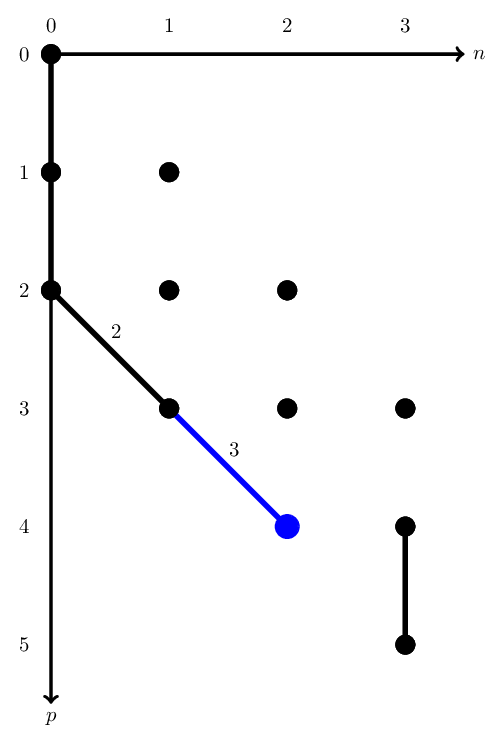
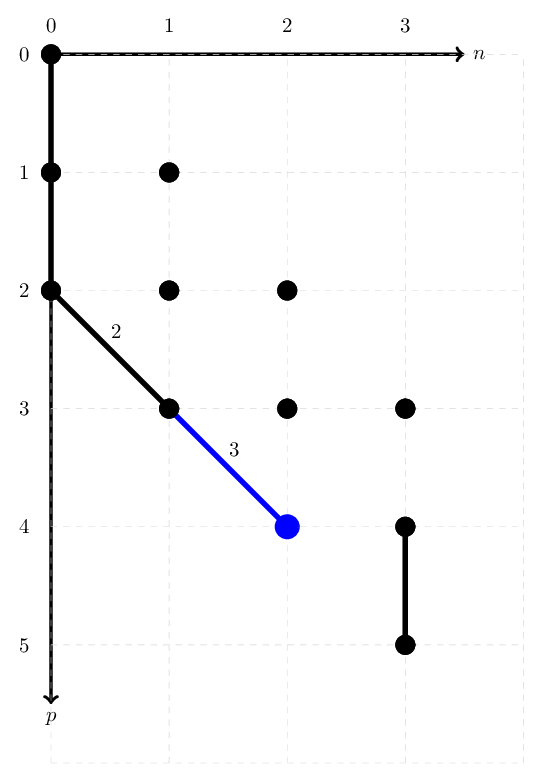
Bugfix: add grid everywhere.

diff --git a/media/ONVPath_00110_4.tex b/media/ONVPath_00110_4.tex
@@ -21,7 +21,7 @@
     \node[circle, label=left:\i] at (0,-\i) {};
 }
 
-%\draw[help lines, color=gray!30, dashed] (0,0) grid (4,-6); % uncomment this if you want a grid
+\draw[help lines, color=gray!30, dashed] (0,0) grid (4,-6); % uncomment this if you want a grid
 
 % draw nodes
 \foreach \i in {0,...,3} {

diff --git a/media/ONVPath_00111.tex b/media/ONVPath_00111.tex
@@ -19,7 +19,7 @@
     \node[circle, label=left:\i] at (0,-\i) {};
 }
 
-%\draw[help lines, color=gray!30, dashed] (0,0) grid (4,-6); % uncomment this if you want a grid
+\draw[help lines, color=gray!30, dashed] (0,0) grid (4,-6); % uncomment this if you want a grid
 
 % draw nodes
 \foreach \i in {0,...,3} {

diff --git a/media/ONVPath_01110.tex b/media/ONVPath_01110.tex
@@ -21,7 +21,7 @@
     \node[circle, label=left:\i] at (0,-\i) {};
 }
 
-%\draw[help lines, color=gray!30, dashed] (0,0) grid (4,-6); % uncomment this if you want a grid
+\draw[help lines, color=gray!30, dashed] (0,0) grid (4,-6); % uncomment this if you want a grid
 
 % draw nodes
 \foreach \i in {0,...,3} {

diff --git a/media/ONVPath_10110.tex b/media/ONVPath_10110.tex
@@ -19,7 +19,7 @@
     \node[circle, label=left:\i] at (0,-\i) {};
 }
 
-%\draw[help lines, color=gray!30, dashed] (0,0) grid (4,-6); % uncomment this if you want a grid
+\draw[help lines, color=gray!30, dashed] (0,0) grid (4,-6); % uncomment this if you want a grid
 
 % draw nodes
 \foreach \i in {0,...,3} {
